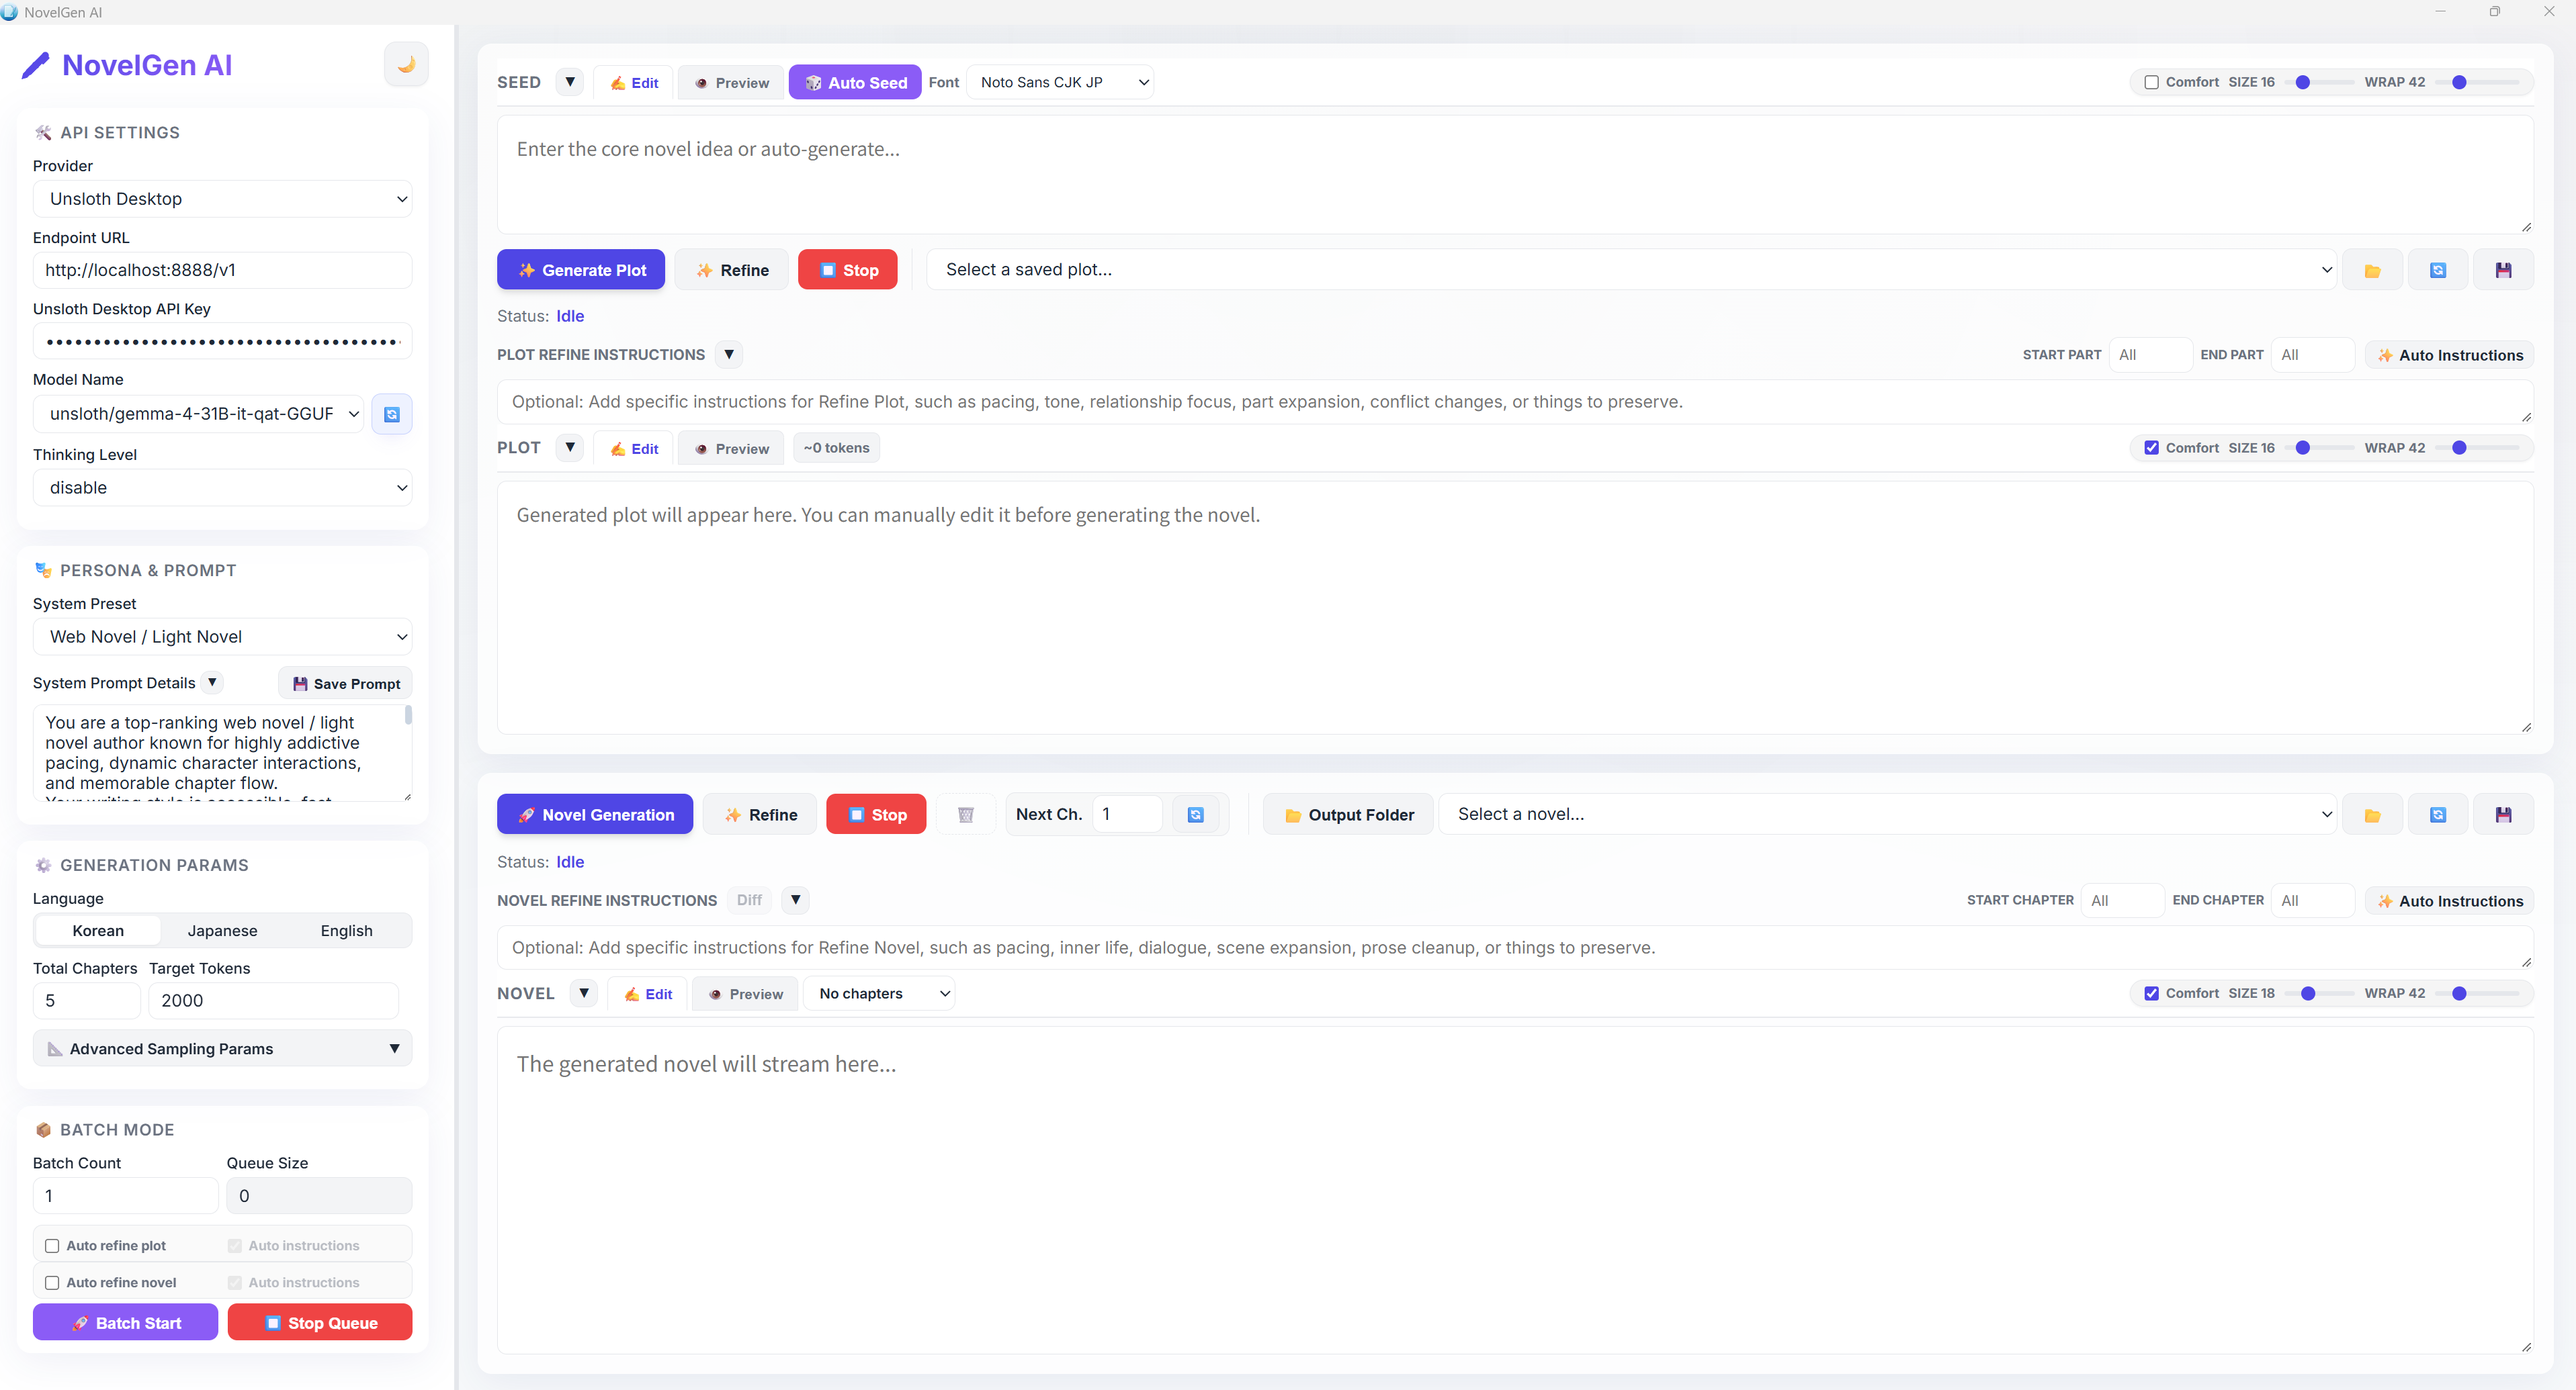
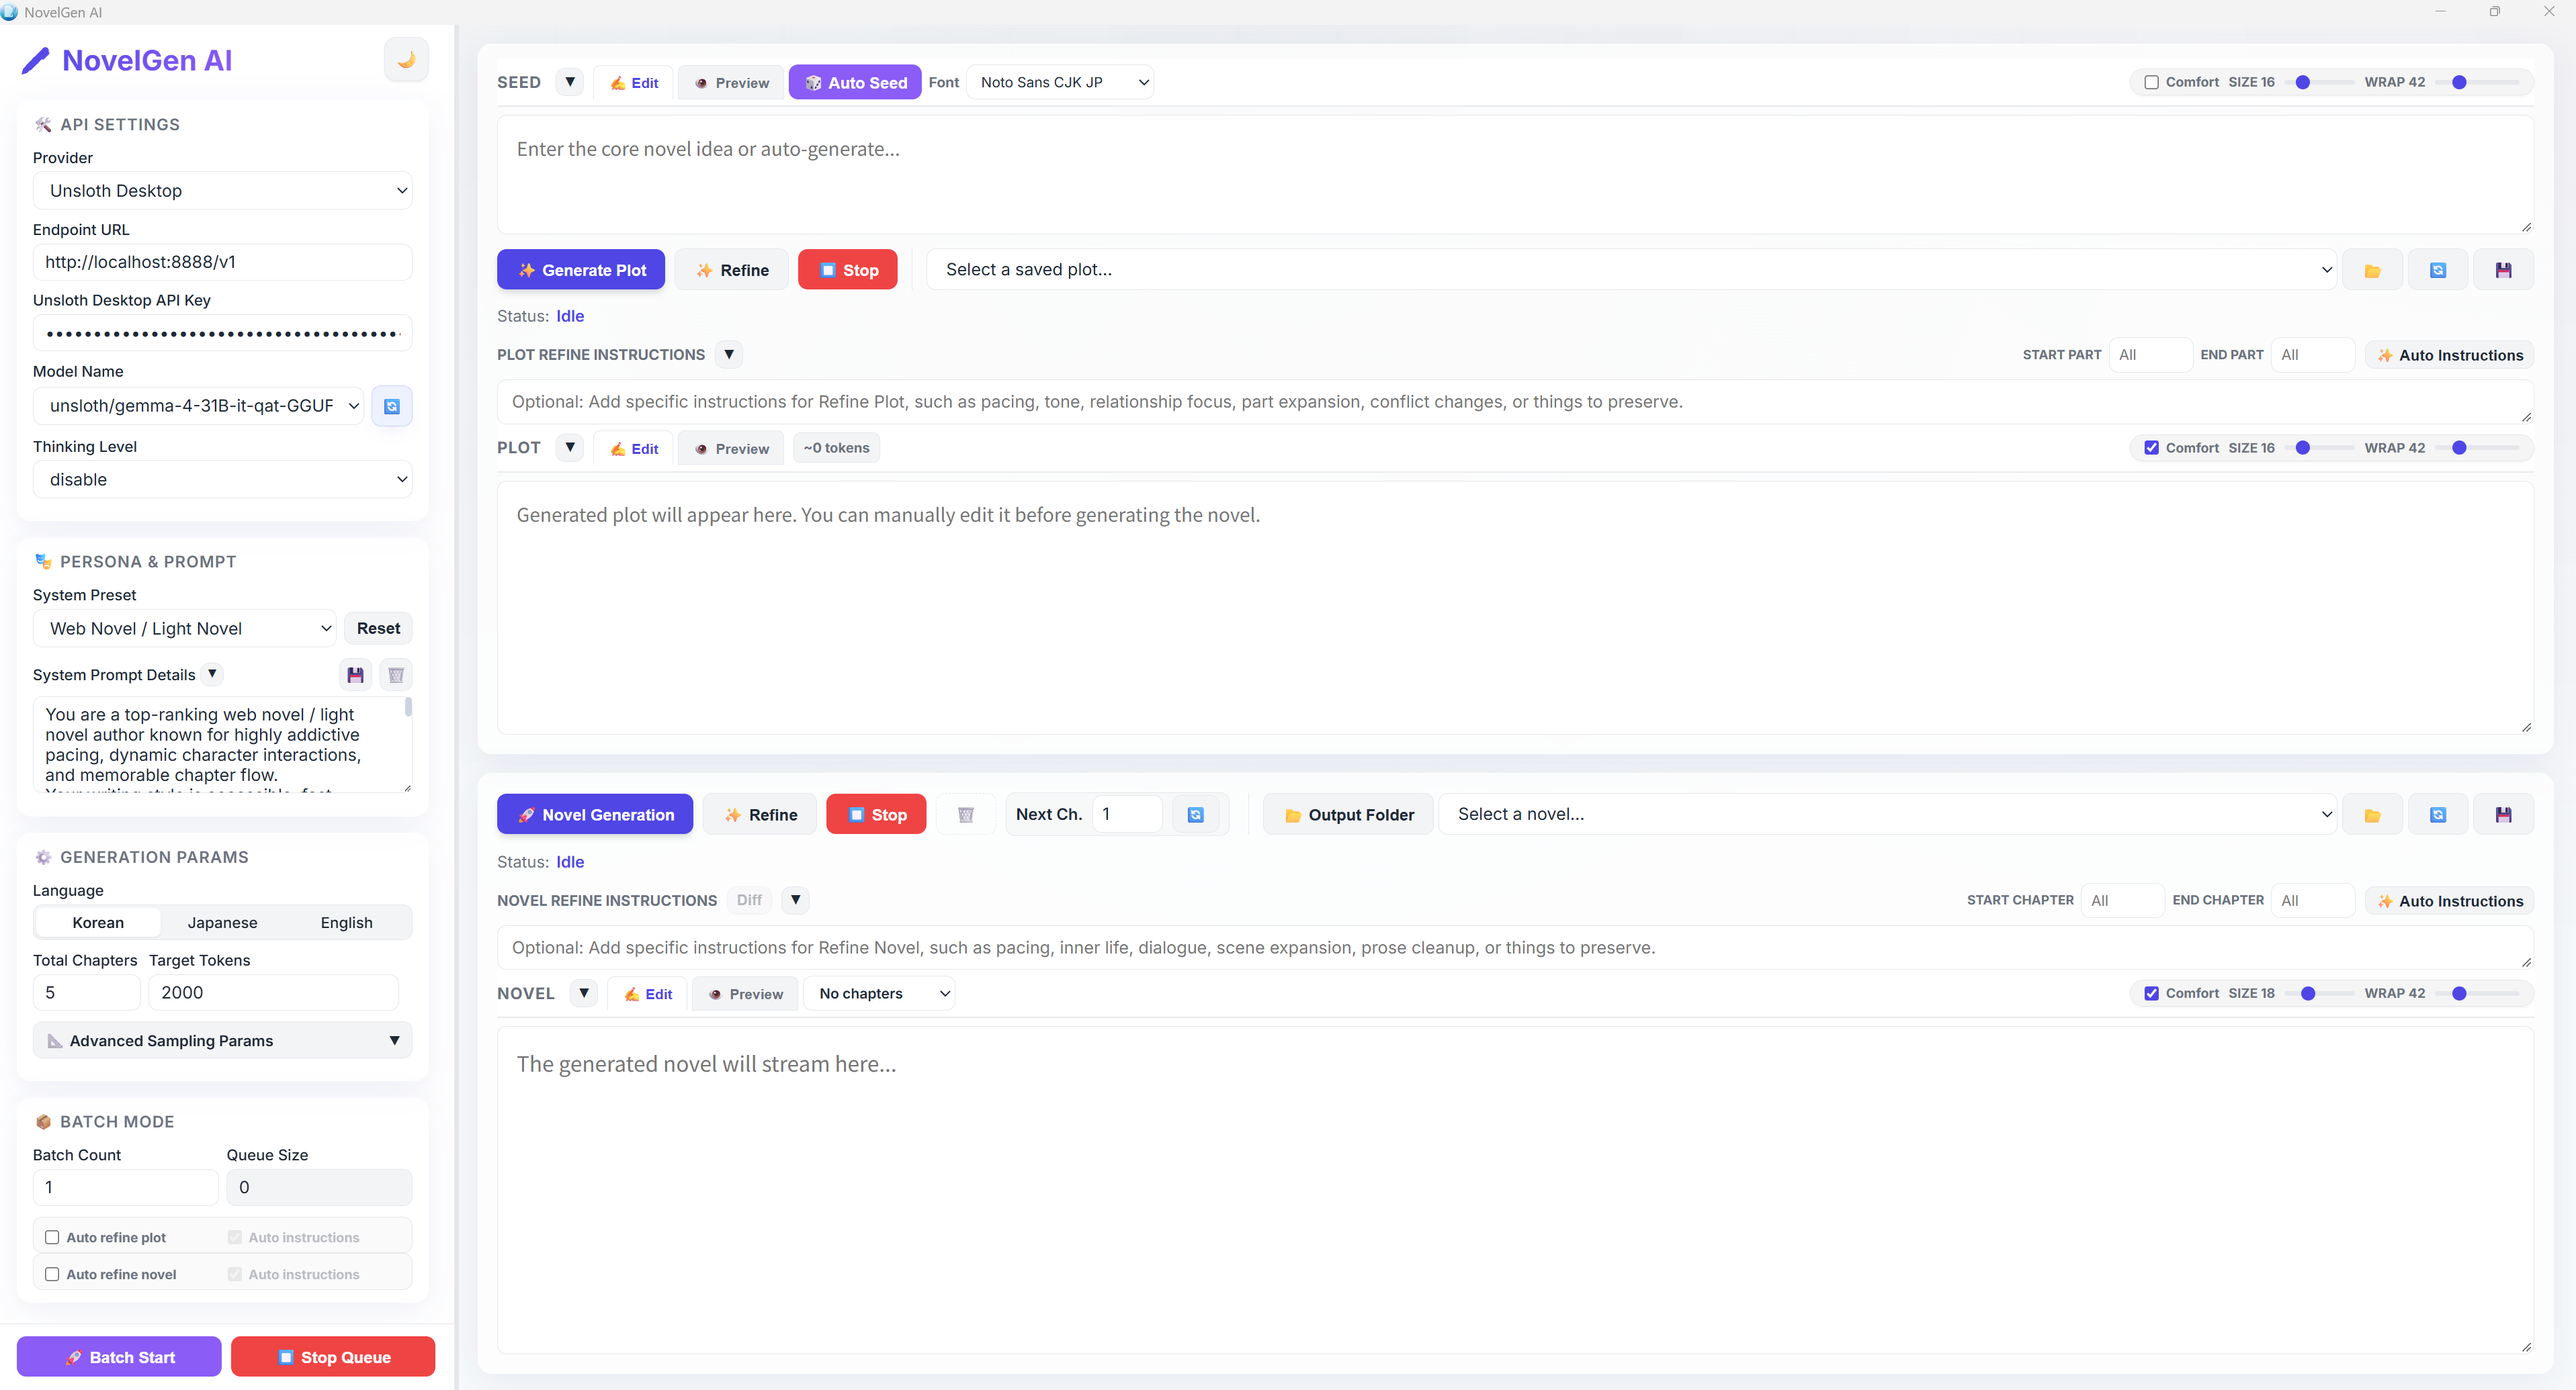
uifix

diff --git a/src/components/Sidebar.tsx b/src/components/Sidebar.tsx
@@ -17,8 +17,6 @@ const growStyle: CSSProperties = { flexGrow: 1 };
 const hiddenGroupStyle: CSSProperties = { display: 'none' };
 const readonlyQueueStyle: CSSProperties = { background: 'var(--bg-card)', cursor: 'not-allowed' };
 const toplessToggleStyle: CSSProperties = { marginTop: 0 };
-const batchButtonsStyle: CSSProperties = { marginTop: 5, gap: 8 };
-const halfButtonStyle: CSSProperties = { flex: 1 };
 
 function ApiSettingsCard({
     actions,
@@ -371,10 +369,6 @@ function BatchModeCard({
                     <span>Auto instructions</span>
                 </label>
             </div>
-            <div className="auto-flex" style={batchButtonsStyle}>
-                <button id="batch-start-btn" className={`btn btn-magic pulse-hover${activity.isBatchResume ? ' btn-resume' : ''}`} type="button" style={halfButtonStyle} onClick={actions.onBatchStart}>{activity.batchStartLabel}</button>
-                <button id="batch-stop-btn" className="btn btn-danger" type="button" style={halfButtonStyle} onClick={actions.onBatchStop}>{activity.batchStopLabel}</button>
-            </div>
         </div>
     );
 }
@@ -384,33 +378,49 @@ export function Sidebar({
     viewState,
     sidebarRef,
 }: AppProps & { sidebarRef?: Ref<HTMLElement> }) {
+    const { activity } = viewState;
     const isDarkTheme = viewState.uiPreferences.theme === 'dark';
     const nextThemeLabel = isDarkTheme ? 'Switch to light mode' : 'Switch to dark mode';
 
     return (
         <aside className="sidebar" ref={sidebarRef}>
-            <div className="sidebar-header">
-                <div className="brand-row">
-                    <AboutTitle />
-                    <button
-                        id="theme-toggle"
-                        className="theme-toggle"
-                        type="button"
-                        data-theme={viewState.uiPreferences.theme}
-                        aria-label={nextThemeLabel}
-                        title={nextThemeLabel}
-                        aria-pressed={isDarkTheme}
-                        onClick={actions.onThemeToggle}
-                    >
-                        <span className="theme-toggle-icon" aria-hidden="true">{isDarkTheme ? '☀' : '🌙'}</span>
-                    </button>
+            <div className="sidebar-scroll">
+                <div className="sidebar-header">
+                    <div className="brand-row">
+                        <AboutTitle />
+                        <button
+                            id="theme-toggle"
+                            className="theme-toggle"
+                            type="button"
+                            data-theme={viewState.uiPreferences.theme}
+                            aria-label={nextThemeLabel}
+                            title={nextThemeLabel}
+                            aria-pressed={isDarkTheme}
+                            onClick={actions.onThemeToggle}
+                        >
+                            <span className="theme-toggle-icon" aria-hidden="true">{isDarkTheme ? '☀' : '🌙'}</span>
+                        </button>
+                    </div>
                 </div>
-            </div>
 
-            <ApiSettingsCard actions={actions} apiSettings={viewState.apiSettings} />
-            <PersonaPromptCard actions={actions} promptEditor={viewState.promptEditor} />
-            <GenerationParamsCard actions={actions} generationParams={viewState.generationParams} />
-            <BatchModeCard actions={actions} activity={viewState.activity} batchSettings={viewState.batchSettings} />
+                <ApiSettingsCard actions={actions} apiSettings={viewState.apiSettings} />
+                <PersonaPromptCard actions={actions} promptEditor={viewState.promptEditor} />
+                <GenerationParamsCard actions={actions} generationParams={viewState.generationParams} />
+                <BatchModeCard actions={actions} activity={activity} batchSettings={viewState.batchSettings} />
+            </div>
+            <div className="sidebar-batch-actions">
+                <button
+                    id="batch-start-btn"
+                    className={`btn btn-magic pulse-hover${activity.isBatchResume ? ' btn-resume' : ''}`}
+                    type="button"
+                    onClick={actions.onBatchStart}
+                >
+                    {activity.batchStartLabel}
+                </button>
+                <button id="batch-stop-btn" className="btn btn-danger" type="button" onClick={actions.onBatchStop}>
+                    {activity.batchStopLabel}
+                </button>
+            </div>
         </aside>
     );
 }

diff --git a/src/styles.css b/src/styles.css
@@ -144,12 +144,32 @@ body {
   height: 100%;
   display: flex;
   flex-direction: column;
-  gap: 14px;
-  overflow-y: auto;
-  padding: 14px 16px;
   background: var(--sidebar-bg);
   flex-shrink: 0;
+}
+
+.sidebar-scroll {
+  flex: 1;
+  min-height: 0;
+  display: flex;
+  flex-direction: column;
+  gap: 14px;
+  overflow-y: auto;
+  padding: 10px 16px 14px;
   scrollbar-gutter: stable;
+}
+
+.sidebar-batch-actions {
+  flex: none;
+  display: grid;
+  grid-template-columns: repeat(2, minmax(0, 1fr));
+  gap: 8px;
+  padding: 10px 16px 14px;
+  border-top: 1px solid var(--border-color);
+}
+
+.sidebar-batch-actions .btn {
+  padding-inline: 8px;
 }
 
 .resizer {
@@ -209,7 +229,7 @@ body {
 }
 
 .sidebar-header {
-  margin-bottom: 5px;
+  margin-bottom: 2px;
   text-align: center;
 }
 
@@ -412,10 +432,6 @@ body {
 
 .settings-group .auto-flex {
   gap: 6.5px;
-}
-
-.settings-group .auto-flex[style*="margin-top"] {
-  margin-top: 4.5px !important;
 }
 
 .settings-group .btn {
